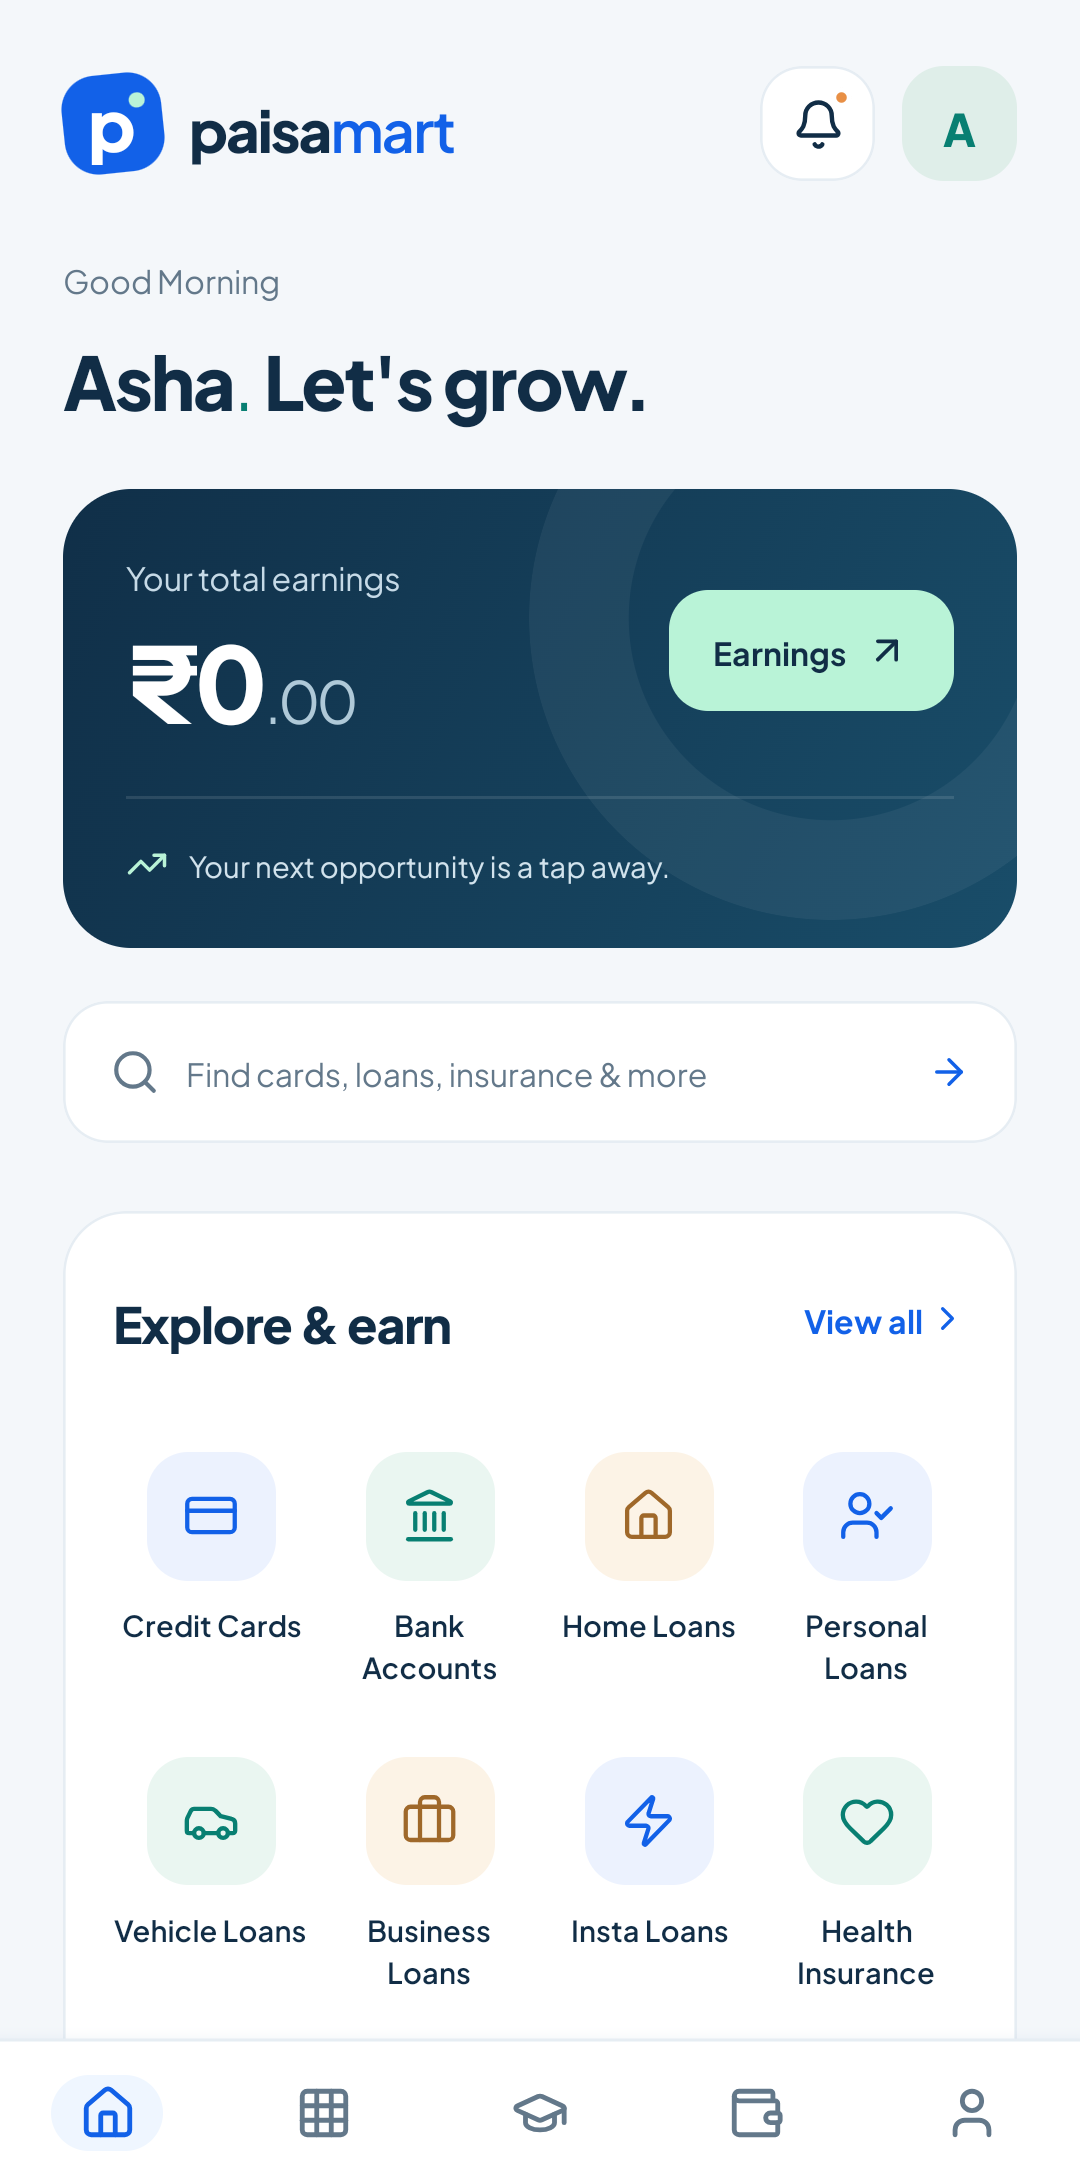
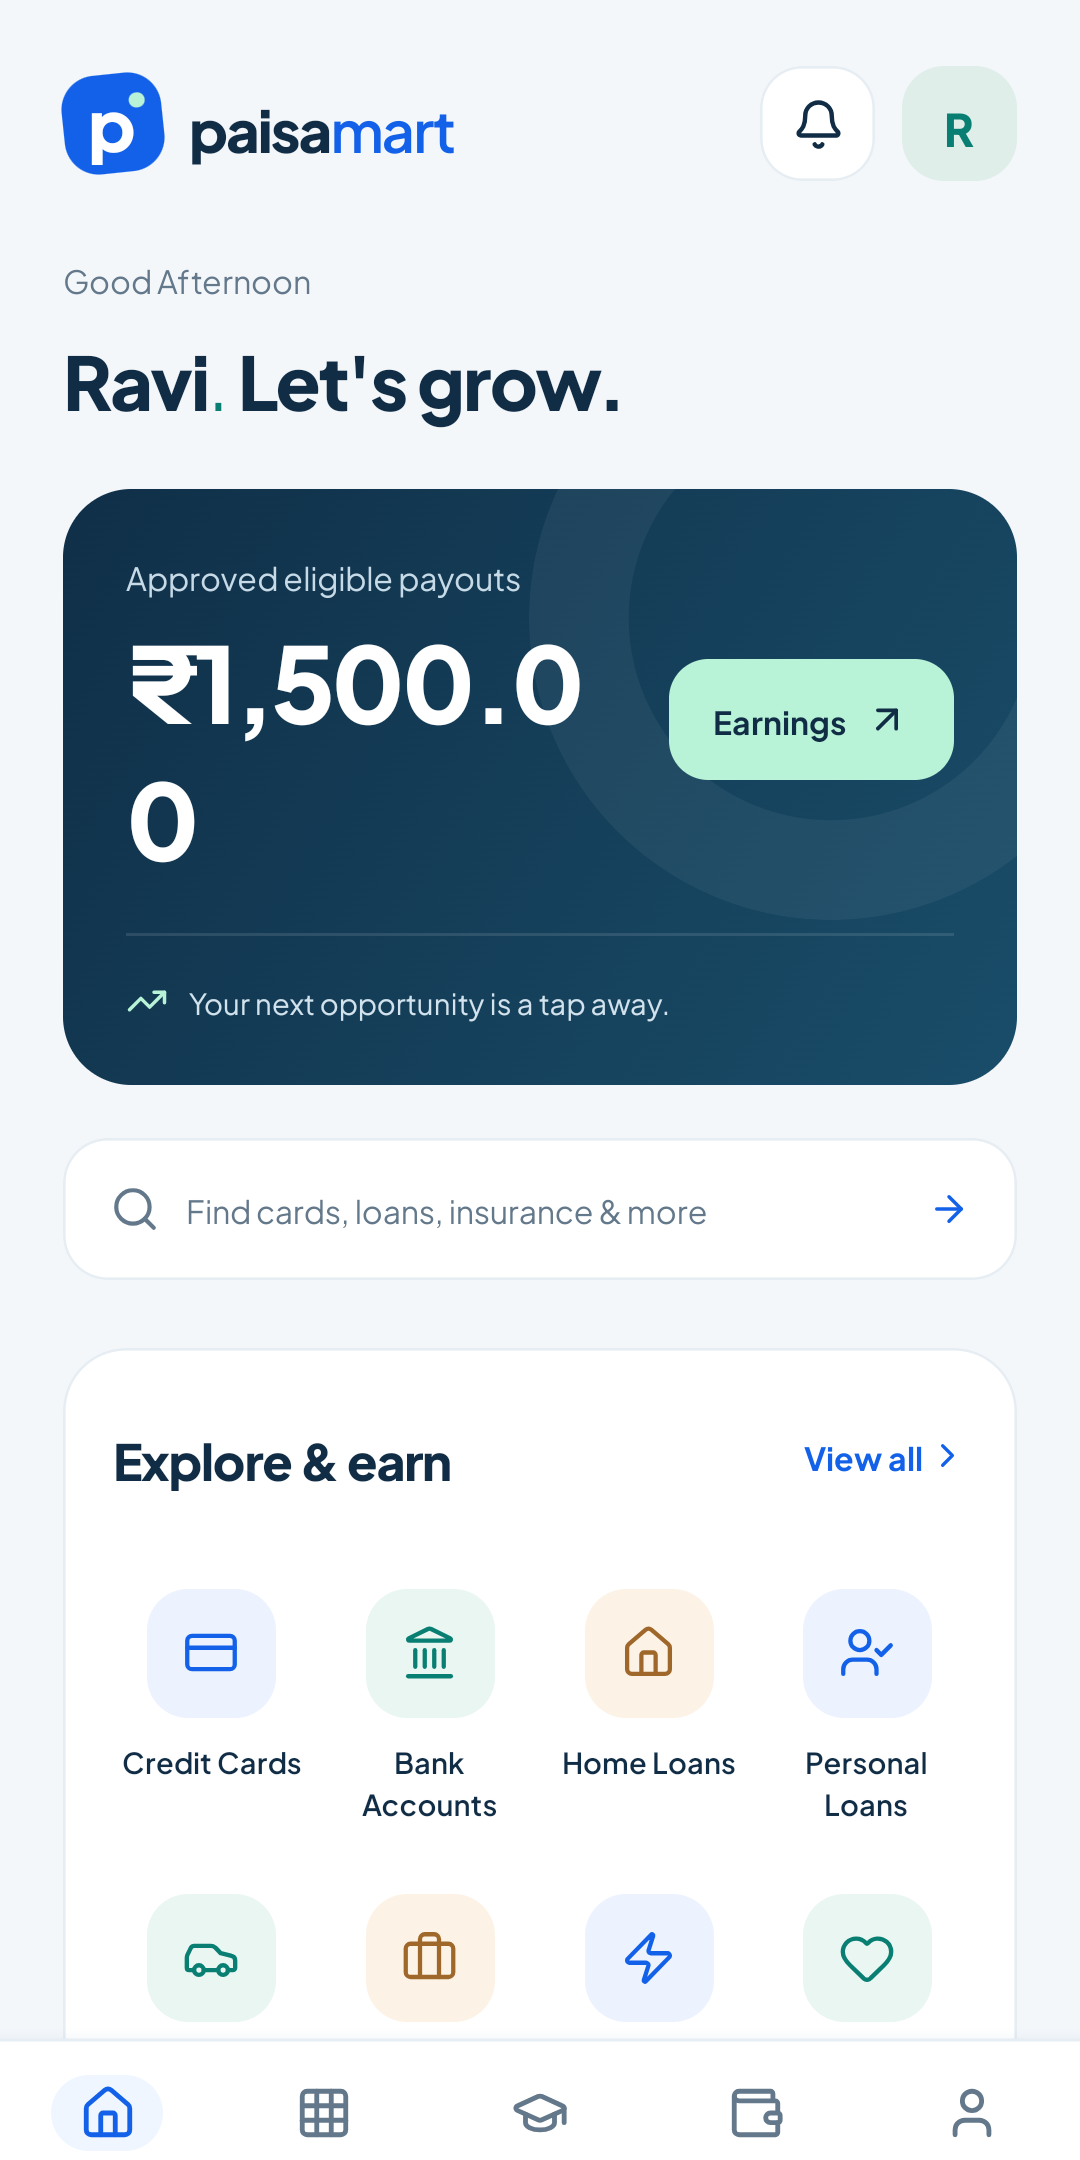
Keep Home payout total on one line; refresh screenshots and A-07/admin/review evidence; checklist

diff --git a/mobile/src/app/(tabs)/index.tsx b/mobile/src/app/(tabs)/index.tsx
@@ -351,12 +351,15 @@ export default function HomeScreen() {
                   Approved eligible payouts
                 </Text>
                 <Text
+                  numberOfLines={1}
+                  adjustsFontSizeToFit
+                  minimumFontScale={0.5}
                   style={{
-                    fontSize: 40,
-                    lineHeight: 52,
+                    fontSize: 34,
+                    lineHeight: 46,
                     color: "#fff",
                     fontWeight: "800",
-                    letterSpacing: -1.4,
+                    letterSpacing: -1.2,
                     marginTop: 5,
                   }}
                 >

diff --git a/docs/play-store-remediation-20261122/CHECKLIST.md b/docs/play-store-remediation-20261122/CHECKLIST.md
@@ -1,6 +1,6 @@
 # Google Play rejection (version code 7, 21 Nov 2026) — remediation checklist
 
-Branch `fix/play-store-remediation-20261122` (base `origin/main` `595e521`). Local only: nothing pushed,
+Branch `fix/play-store-remediation-20261122` (base `origin/main` `595e521`). Local commits only: nothing pushed,
 uploaded, submitted, merged or deployed. No AWS or production access.
 
 ## Build identity
@@ -8,59 +8,79 @@ uploaded, submitted, merged or deployed. No AWS or production access.
 | Item | Value | Status |
 |---|---|---|
 | Rejected artifact | versionCode 7, `com.paisamart.app` | From Google email |
-| Source of versionCode 7 | Unknown. Git's highest recorded versionCode is 5 (`9594380`). Builds use EAS (`eas.json`, owner `paisamart`). It was not reproduced. | **UNKNOWN** |
-| Web release `20261121-595e5212-on-pr6-dashboard` | A separate artifact; it isn't evidence of the Android contents | Distinct |
[2 lines of base64/hex data omitted]
-| Build host | WSL Ubuntu-22.04, user-space JDK 17.0.21 + SDK/NDK 27.1.12297006, clean clone, `pnpm install --frozen-lockfile`, `expo prebuild --clean`. Script: `wsl-build.sh`. | Reproducible |
-| versionCode 8 | 7 is the highest code evidenced | **PROVISIONAL**: check Play Console → App bundle explorer, all tracks |
+| Source of versionCode 7 | Unknown. Git's highest recorded versionCode is 5 (`9594380`). Builds use EAS (owner `paisamart`). Not reproduced. | **UNKNOWN** |
+| Web release `20261121-595e5212-on-pr6-dashboard` | A separate artifact, not evidence of the Android contents | Distinct |
+| Candidate APK (local test only) | `paisamart-vc8-CANDIDATE-prodapi-6d3a072-debugsigned-LOCALTEST.apk`. SHA-256 and launch check: see HANDOFF. Production API, no cleartext, **debug-signed**. | NOT uploadable |
+| Test-variant APK (device tests, screenshots) | `…TESTVARIANT-localapi-6d3a072…`. Same source; differs only by `EXPO_PUBLIC_API_URL=http://127.0.0.1:3901` and cleartext. | Local only |
+| Earlier evidence build | `…TESTVARIANT-localapi-d7c8a33…` SHA-256 `b9d1bd22…8cfa`. A-07 and review tests ran on it. `6d3a072` changes only two strings: the per-item amount format and the notifications empty-state copy. | Local only |
+| Build host | WSL Ubuntu-22.04, user-space JDK 17 + SDK/NDK 27.1.12297006, clean clone, `pnpm install --frozen-lockfile`, `expo prebuild --clean`. Script: `wsl-build.sh`. | Reproducible |
+| versionCode 8 | 7 is the highest code evidenced | **PROVISIONAL** |
 
 ## Signing — UNVERIFIED
 
-- `release/Paisa-Mart-1.0.0-1-arm64-release.aab` (v1) is signed with the public Android Debug certificate, contrary to
-  its README. `release/paisa-mart-upload.keystore` exists, but its certificate was not read (that needs the password, which wasn't used).
-- Expo CLI is not logged in, so EAS credentials can't be seen.
-- Before any submission artifact: compare Play Console → App integrity → Upload key certificate with the EAS credentials
-  (`paisamart` owner) or the local keystore. Then build the AAB with that key. Don't create or replace keys.
+- `release/paisa-mart-upload.keystore` exists; its certificate was not read (that needs the password, which wasn't used). Expo CLI is not logged in.
+- Before any submission artifact, compare Play Console → App integrity → Upload key certificate with the EAS credentials or the local keystore,
+  then build the AAB with that key. Don't create or replace keys.
 
 ## Rejection → fix
 
 | # | Finding | Fix / evidence | Status |
 |---|---|---|---|
-| 1 | Metadata: title/short description "paisamart" | `STORE_LISTING_en-US.md`, rewritten for the verified partner/agent functionality | Done (copy). Pasting into Play Console is manual. |
-| 2 | Launcher icon ≠ store icon | `app.json` icon + adaptive + monochrome, derived from `icon-512.png`. **On device:** `evidence/installed-launcher-icon-and-label.png` (test variant) plus the candidate check: orange P, label "Paisa Mart". | **VERIFIED on device** |
-| 3 | Promo banners as screenshots | `screenshots/01–05` (genuine Android, synthetic data, 1080×2160) | Done. Replacing them in Play Console is manual. |
-| 4 | Login credentials missing | `REVIEWER_ACCESS_DESIGN.md` + `APP_ACCESS_INSTRUCTIONS_en.md` (placeholders) | **DESIGN ONLY.** Needs backend work, tests and an authorized EC2 release. Not resolved. |
+| 1 | Metadata: title/short description "paisamart" | `STORE_LISTING_en-US.md`, rewritten after the audience review (customers and partners) | Done (copy). Pasting into Play Console is manual. |
+| 2 | Launcher icon ≠ store icon | `app.json` icon, adaptive and monochrome icons from `icon-512.png` | **VERIFIED on device** |
+| 3 | Promo banners as screenshots | `screenshots/01–06` (genuine Android, synthetic data, 1080×2160) | Done. Replacing them in Play Console is manual. |
+| 4 | Login credentials missing | Review account **implemented and tested locally** (`REVIEWER_ACCESS_DESIGN.md`) + `APP_ACCESS_INSTRUCTIONS_en.md` | **NOT in production.** Needs the authorized release steps listed in that file. |
 
-## Runtime verification (emulator Pixel 6 / Android 15 API 35; isolated local backend `595e521`, scratch SQLite)
+## A-07 fabricated financial information — FIXED IN CODE (all users), verified locally
 
-| Check | Result | Evidence |
-|---|---|---|
-| Install (test and candidate) | Pass | `adb install` Success; dumpsys versionCode 8 |
-| Launcher icon and label | Pass | evidence PNGs |
-| OTP login (local dev OTP; test evidence only, not reviewer access) | Pass: `send-otp 200`, `verify-otp 200` | backend log |
-| Onboarding: profile → MPIN → Home, KYC flag unchanged (disabled) | Pass | screenshots 01 |
-| Product browsing | Pass | screenshot 02 |
-| Application submission (Home Loan) | Pass: `POST /api/home-loans/leads 200`, confirmation `HL-c6098939-…` | screenshots 03, 04 |
-| Status tracking | Pass: `GET /api/customer-applications 200`, stage "New leads" | screenshot 05 |
-| Stage change reflected | Not re-run. Reused from the PR #7 browser check (same app code). | HANDOFF PR #7 section |
-| Candidate launches against production URL | Pass (login screen only; no production login, no data written) | — |
+| Before (595e521/4d0557e) | Now |
+|---|---|
+| Earnings: hard-coded ₹7,900 balance, ₹12,400 / ₹45,600 / ₹1,800, 5 fake transactions, withdraw flow | Server data only (`/api/customer-payouts`: own amounts approved by executive AND manager). States: total, list, "No approved payouts yet", or "Unavailable" plus the error. No balance, no withdrawal. Says an approved amount is not a payment. |
+| Home: hard-coded "Your total earnings ₹0.00" | "Approved eligible payouts", same server total; "Unavailable" on error |
+| Notifications seeded: "₹2,000 incentive approved", "₹5,000 transferred to HDFC", "KYC Verified" | No seeded notifications; neutral empty state |
+| Cash on Credit Card wallet: local "₹X added", "sent to HDFC Bank", statement | Replaced by a "not available" screen; no balance or simulated transaction |
+| Bank details stored only on the device, unencrypted, with "encrypted and secure" copy | Not collected; "not available" screen. Persisted local bank numbers and generated payouts are removed by the store migration (v1). |
+| Admin Incentives/Payouts pages: random generated incentives and payouts | Empty; real payouts remain the server dual-approval flow |
+| Profile shows "Verified" colouring when KYC is merely switched off | Verified only when the status is `verified`; otherwise "KYC not required yet" |
+| "Invite friends, earn ₹500", "Earn up to ₹1 Lakh" (no referral or earnings backend) | Neutral invite copy |
 
-Test-harness note: fast `adb input text` drops repeated digits in the per-digit OTP boxes, so enter one digit per box.
+Still in the app, for the **owner to confirm or remove** (configured business rates, not user balances): Products "Potential commission — Earn up to ₹2,000"; Profile → Payout Structure rate card.
+
+## Runtime verification (emulator Pixel 6 / Android 15; isolated local backend from this branch, scratch SQLite, synthetic data)
+
+| Check | Result |
+|---|---|
+| Upgrade install over the earlier build, then app-data clear for fresh state | Pass |
+| Fresh account 9000000003: OTP (local dev OTP, `ALLOW_DEV_OTP=true` locally only) → profile → MPIN → Home | Pass; Home and Earnings show ₹0.00 and "No approved payouts yet"; notifications empty; Bank details and Cash on Credit Card show "not available" |
+| Synthetic account 9000000002 with saved records (BL Disbursed with ₹1,500.00 entered by admin, approved by executive then manager; HL New) | Home and Earnings ₹1,500.00 with the BL reference; My applications lists both with their stages |
+| Admin stage change reflected in Android | Pass: HL "New leads" → admin `documents_pending` → app "Documents pending" after Refresh |
+| Review account 9000000099 (locally generated code) | send-otp gives no SMS and no dev OTP; verify gives 200; log shows a masked phone. Only its 2 synthetic records are visible (both labelled TEST in admin). Payouts ₹0.00 although its BL is Disbursed: payout save and approval return 403. |
+| Review code with other phones (live) | 401 / 401 |
+| Payout approvals and ownership | Existing dual-approval and isolation tests pass (`admin-payouts`, `customer-applications`, `admin-operations`) |
+| Backend tests | 62 pass / 0 fail (11 files run separately); backend typecheck has no errors in changed files; mobile `tsc --noEmit` 0 errors |
+
+Test-harness note: enter OTP digits one per box; wait for the OTP screen before typing.
+
+## Backend exit 255 (previous session) — intentional, not a failure
+
+Both "Start isolated local backend on 3901 … exit code 255" events came 4 s and 9 s after this agent's
+own `Stop-Process -Force` on port 3901 (04:57:40Z → 04:57:44Z; 05:47:54Z → 05:48:03Z). The log ends with normal
+`GET /api/customer-applications 200` lines and contains no error, exception or panic. 255 is the forced-termination code.
 
 ## Unresolved blockers
 
-1. **A-07 fabricated money (confirmed on this Android build).** On a new account with Home ₹0.00, the Earnings tab shows ₹7,900 / ₹12,400 /
-   ₹45,600 / ₹1,800. Notifications say "₹2,000 incentive approved", "₹5,000 transferred to your HDFC Bank account", "KYC Verified".
-   Evidence: `evidence/A07-UNRESOLVED-*.png`. Not fixed, and must not be hidden only for reviewers. This is a high risk under Misleading Claims / Financial
-   Services. It needs a real app fix (server data or empty states) before resubmission.
-2. Reviewer access: design only.
-3. Upload certificate: unverified.
-4. versionCode 8: provisional.
-5. Source of versionCode 7: unknown.
-6. In-app logo (green/blue "p") differs from the orange "P" launcher/store icon. Google didn't flag this. It's a brand consistency item for the owner.
-7. "Earn up to ₹2,000" commission figures on Products: the owner must confirm they're accurate.
+1. Reviewer access is not in production: it needs PR review, merge, a guarded backend release, `.env` values, synthetic seeding and Play Console entry, each separately authorized.
+2. Upload certificate: unverified.
+3. versionCode 8: provisional. Source of versionCode 7: unknown.
+4. Ownership model (A-08): partners cannot track leads they file for clients. The listing doesn't claim it. Owner decision needed.
+5. Commission and rate-card figures (Products, Payout Structure): owner must confirm.
+6. A-02 is only partly fixed: the widget reqId is now bound to the phone; `verify-otp-token` still falls back to the client phone (needs a real MSG91 response to fix safely).
+7. In-app logo (green/blue "p") differs from the orange "P" launcher icon: a brand consistency item.
 
 ## Manual Play Console actions (need owner access; all UNVERIFIED)
-Update the default listing and check every translated/custom listing; replace the screenshots; confirm the version code history and upload certificate;
-Financial features declaration; App access (only after the review account is live); privacy policy URL.
+- Update the default listing and check every translated or custom listing.
+- Replace the screenshots.
+- Confirm the version code history and the upload certificate.
+- Complete the Financial features declaration.
+- Fill in App access, only after the review account is live.
+- Set the privacy policy URL.
